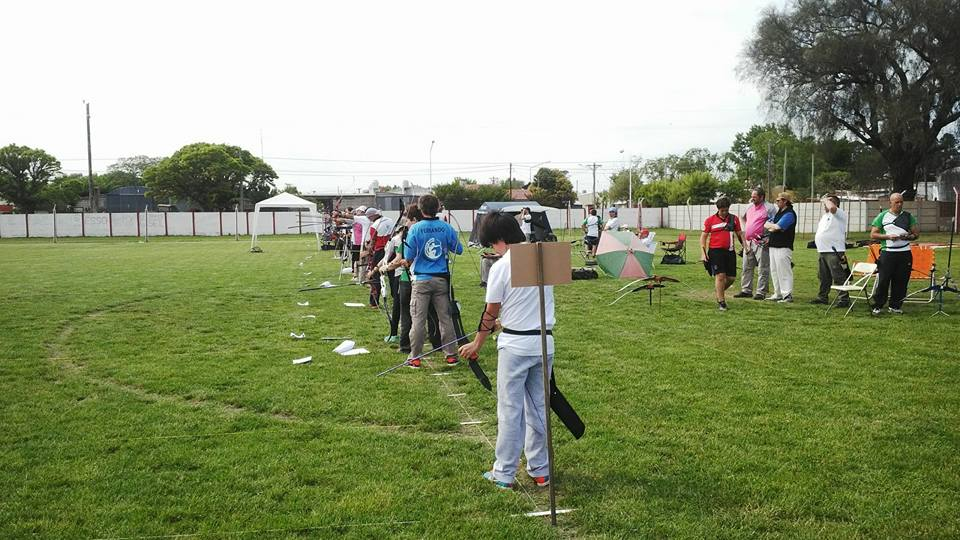
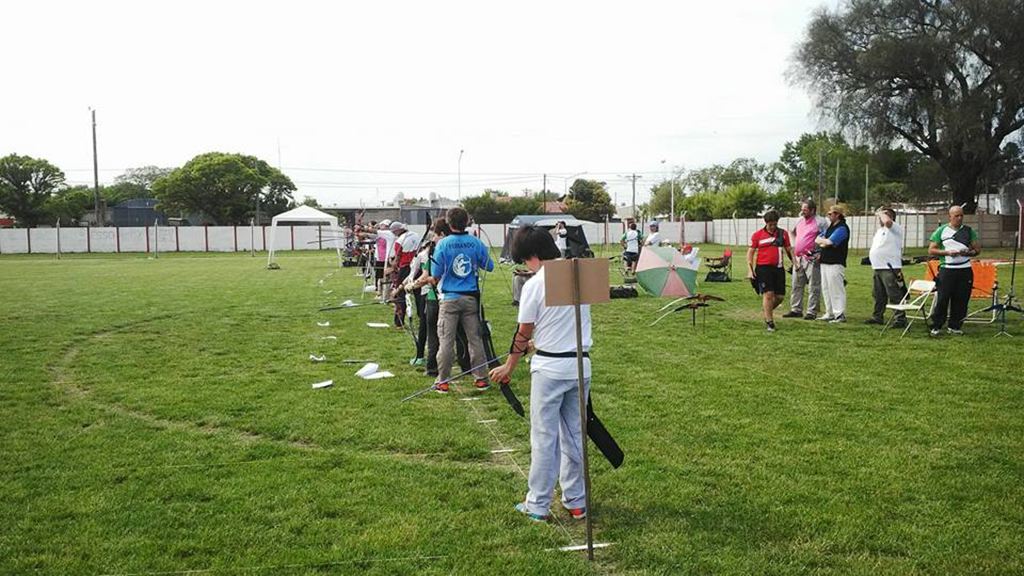
muchos cambios en las medias queries

diff --git a/pages/historia.html b/pages/historia.html
@@ -130,12 +130,16 @@
     <br>
 
     <!--Video con la historia de Youtube-->
-    <br>
-    <iframe width="854" height="480" src="https://www.youtube.com/embed/TdLyJrivY7s" title="YouTube video player"
-        frameborder="0" allow="accelerometer; autoplay; clipboard-write; encrypted-media; gyroscope; picture-in-picture" allowfullscreen>
+    <iframe class="contenedor-video" width="900" height="500" src="https://www.youtube.com/embed/TdLyJrivY7s" title="YouTube video player"
+        frameborder="10" allow="accelerometer; autoplay; clipboard-write; encrypted-media; gyroscope; picture-in-picture" allowfullscreen>
     </iframe>
     <br>
     
+    <!--Agradecimientos-->
+    <h5>Un agradecimiento muy especial para mi amigo Adrian Wirz que me facilito todo el material audiovisual para este trabajo.</h5>
+    <h5>Este trabajo está dedicado a mi hermosa familia que siempre me apoya en todo lo que emprendo.</h5>
+    <br>
+
     <footer>
         <div class="footer__caja-contenedor-footer">
             <!--Pie de pagina-->

diff --git a/css/styles.css b/css/styles.css
@@ -33,6 +33,12 @@ h4 {
   color: whitesmoke;
   font-size: 60 px; }
 
+h5 {
+  font-family: 'Acme', sans-serif;
+  margin: top;
+  color: red;
+  font-size: 120%; }
+
 /*Comienzo de la definicion de las zonas con flex*/
 body {
   background-image: url(../img/fondo.jpg);
@@ -365,7 +371,7 @@ a.button {
   margin: 20px;
   padding: 20px; }
 
-@media (max-width: 575.98px) {
+@media (max-width: 575px) {
   body {
     background-image: url(../img/fondo-rosa.jpg); }
   .body__caja-contenedor {
@@ -388,6 +394,8 @@ a.button {
   h2 {
     font-size: 100%;
     color: coral; }
+  h5 {
+    font-size: 80%; }
   .header__escudo figure img {
     width: 100px; }
   .header__escudo figure:hover img {
@@ -397,4 +405,7 @@ a.button {
     grid-template-rows: repeat(4, 1fr); }
   .contenedor-deportes {
     grid-template-columns: repeat(1, 1fr);
-    grid-template-rows: repeat(4, 1fr); } }
+    grid-template-rows: repeat(4, 1fr); }
+  .contenedor-video {
+    width: 450px;
+    height: 250px; } }

diff --git a/pages/deportes.html b/pages/deportes.html
@@ -107,6 +107,7 @@
                             <li><a href="deportes/futbol.html">Fútbol</a></li>
                             <li><a href="deportes/bochas.html">Bochas</a></li>
                             <li><a href="deportes/patin.html">Patín</a></li>
+                            <li><a href="deportes/arqueria.html">Arquería</a></li>
                         </ul> 
                     </li>
                     <li>
@@ -164,8 +165,11 @@
     </section>
     <br>
 
-    <img src="../img/deportes/hinchada.jpg" height="680px" width="1024px" alt="Hinchada del Rojo de Salliqueló">
-    <br>
+    <picture>
+        <source srcset="../img/deportes/hinchada.jpg" media="(min-width:575px)">
+        <img src="../img/deportes/hinchada-low.jpg" alt="Hinchada del Rojo de Salliqueló">
+    </picture>
+    <br>    
 
     <footer>
         <div class="footer__caja-contenedor-footer">

diff --git a/pages/deportes/arqueria.html b/pages/deportes/arqueria.html
@@ -117,10 +117,14 @@
     </header>
 
     <!--Pagina de la Seccion Patin-->
-    <h1>ARQUERÍA</h1>
-    <h2>Esta es la sección exclusiva de la Arquería en nuestro Club</h2>
+    <h1>TIRO CON ARCO</h1>
+    <h2>Esta es la sección exclusiva del tiro con arco en nuestro Club</h2>
+    
     <br>
-    <img src="../../img/deportes/arqueria.jpg" height="680px" width="1024px" alt="Patín" title="Patín">
+    <picture>
+        <source srcset="../../img/deportes/arqueria.jpg" media="(min-width:575px)">
+        <img src="../../img/deportes/arqueria-low.jpg" alt="Nuestros arqueros">
+    </picture>
     <br>
 
     <footer>

diff --git a/pages/deportes/bochas.html b/pages/deportes/bochas.html
@@ -126,9 +126,12 @@
     <h2>Esta es la seccion exclusiva de las bochas en nuestro Club</h2>
     <br>
 
-    <img src="../../img/deportes/bochas.jpg" height="680px" width="1024px" alt="Bochas" title="Bochas">
+    <picture>
+        <source srcset="../../img/deportes/bochas.jpg" media="(min-width:575px)">
+        <img src="../../img/deportes/bochas-low.jpg" alt="Nuestros bochofilos">
+    </picture>
     <br>
-
+    
     <footer>
         <div class="footer__caja-contenedor-footer">
             <!--Pie de pagina-->

diff --git a/scss/_medias.scss b/scss/_medias.scss
@@ -1,4 +1,4 @@
-@media (max-width: 575.98px) {
+@media (max-width: 575px) {
 	body {
 		background-image: url(../img/fondo-rosa.jpg);
 	}
@@ -28,6 +28,9 @@
 		font-size: 100%;
         color: coral;
     }
+	h5 {
+		font-size: 80%;
+	}
 	.header__escudo figure img {
 		width: 100px;
 	}
@@ -42,5 +45,10 @@
 	.contenedor-deportes { 
 		grid-template-columns: repeat(1,1fr);   
 		grid-template-rows: repeat(4,1fr);      
+	}
+
+	.contenedor-video {
+		width: 450px;
+		height: 250px;
 	}
 }

diff --git a/pages/deportes/patin.html b/pages/deportes/patin.html
@@ -120,7 +120,11 @@
     <h1>PATÍN ARTÍSTICO</h1>
     <h2>Esta es la sección exclusiva del Patín Artístico en nuestro Club</h2>
     <br>
-    <img src="../../img/deportes/patin.jpg" height="680px" width="1024px" alt="Patín" title="Patín">
+
+    <picture>
+        <source srcset="../../img/deportes/patin.jpg" media="(min-width:575px)">
+        <img src="../../img/deportes/patin-low.jpg" alt="Nuestras patinadoras">
+    </picture>
     <br>
 
     <footer>

diff --git a/pages/deportes/futbol.html b/pages/deportes/futbol.html
@@ -122,7 +122,10 @@
     <h2>Esta es la seccion exclusiva del futbol en nuestro Club</h2>
     <br>
 
-    <img src="../../img/deportes/futbol.jpg" height="680px" width="1024px" alt="Futbol" title="Futbol">
+    <picture>
+        <source srcset="../../img/deportes/futbol.jpg" media="(min-width:575px)">
+        <img src="../../img/deportes/futbol-low.jpg" alt="Nuestros futbolistas">
+    </picture>
     <br>
 
     <footer>

diff --git a/pages/social.html b/pages/social.html
@@ -128,7 +128,10 @@
     <br>
 
     <br>
-    <img src="../img/social/social1.jpg" height="690px" width="1024px" alt="Sede Social de nuestro Club" title="Sede Social"/>
+    <picture>
+        <source srcset="../img/social/social.jpg" media="(min-width:575px)">
+        <img src="../img/social/social-low.jpg" alt="Nuestra parte social">
+    </picture>
     <br>
 
     <footer>

diff --git a/scss/_main.scss b/scss/_main.scss
@@ -36,3 +36,10 @@ h4 {
 	color: whitesmoke;
 	font-size: 60 px;
 }
+
+h5 {
+	font-family: 'Acme', sans-serif;
+	margin: top;
+	color: red;
+	font-size: 120%;
+}
